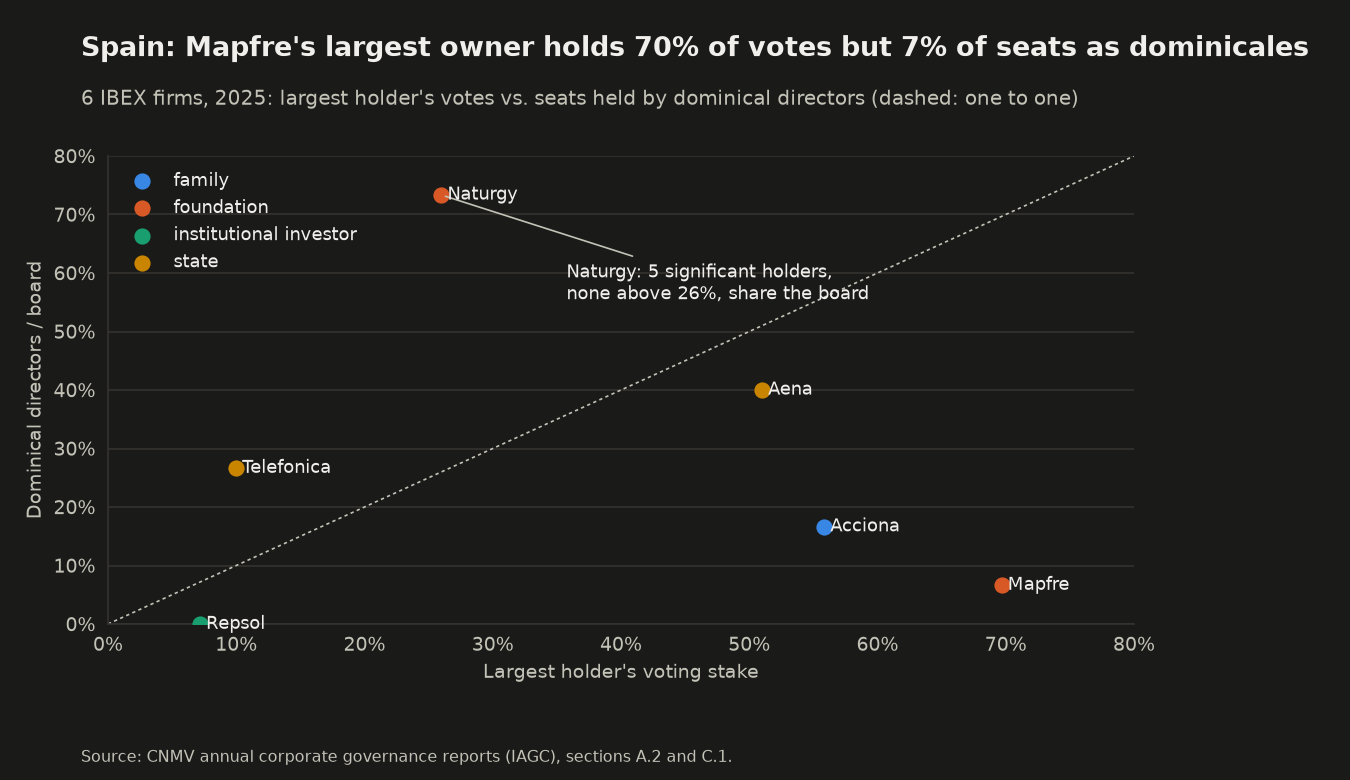
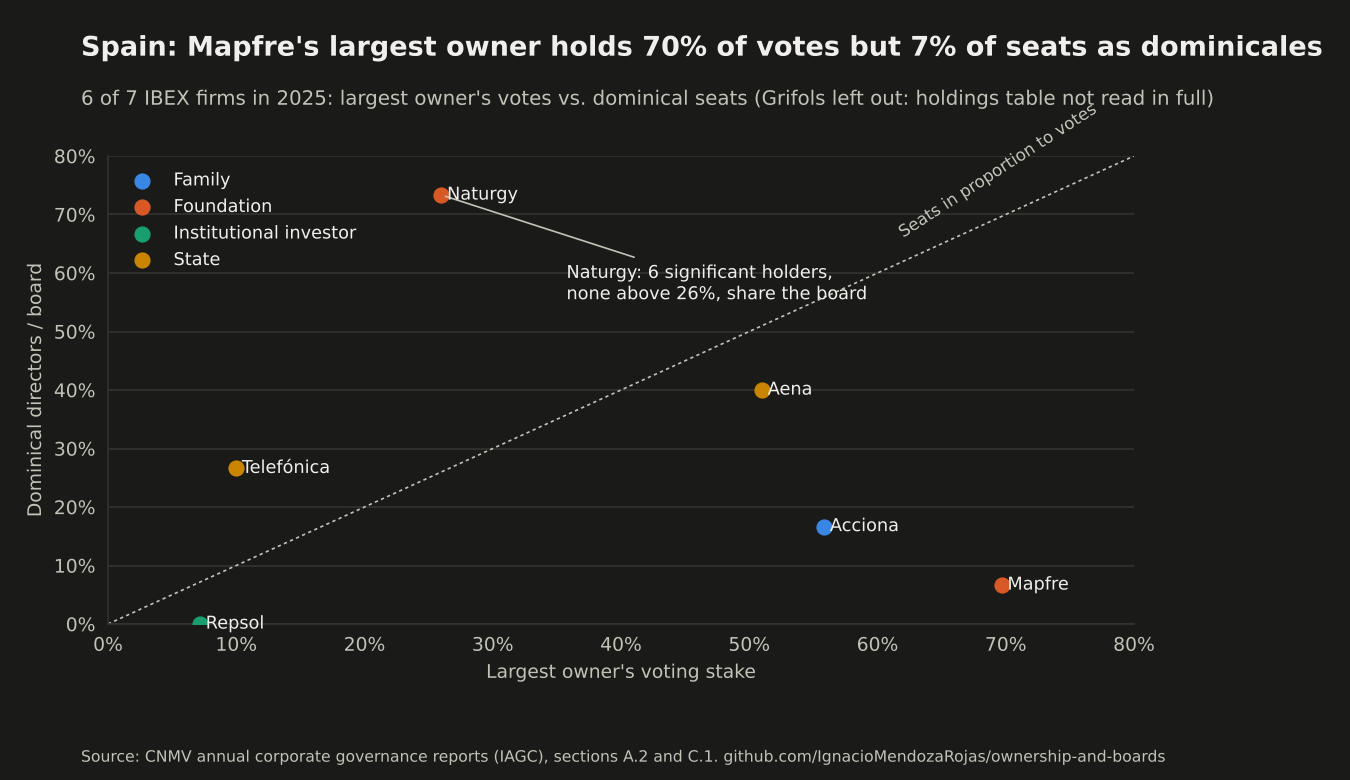
Research: rebuilt figures (governance chart with capitalised legend, accents and repo address); Naturgy has six significant holders
Claude-Session: https://claude.ai/code/session_01GFch6Mf9N8rni9gmPQhHex

diff --git a/index.html b/index.html
@@ -122,14 +122,14 @@
 
 <section class="finding" aria-labelledby="c-research">
   <p class="project"><strong>Research: corporate governance</strong></p>
-  <h2 id="c-research">Fundación Mapfre holds 70% of Mapfre's votes but one of its 15 board seats as a dominical director. At Naturgy, five investors, none above 26%, hold 11 of 15.</h2>
+  <h2 id="c-research">Fundación Mapfre holds 70% of Mapfre's votes but one of its 15 board seats as a dominical director. At Naturgy, six significant holders, none above 26%, hold 11 of 15.</h2>
   <div class="measure">
     <p><em>The question:</em> how combinations of owners (business groups, families, foundations, the State, pension funds and institutional investors) translate into board seats in two markets with concentrated ownership, Chile and Spain, which give minority owners different routes to the board. <em>Built here:</em> a panel from the regulators' public filings, the CMF's company pages and the CNMV's governance reports read out of PDF, with owners classified by type. In the pilot, the largest Chilean shareholder's median stake rose from 35% to 40% between 2010 and 2025, and Spanish controllers reach the board either through dominical directors or through executives, which a count of dominical seats alone misses.</p>
   </div>
   <figure>
     <picture>
       <source media="(prefers-color-scheme: dark)" srcset="assets/fig/governance-dark.png">
-      <img src="assets/fig/governance-light.png" alt="Largest holder's voting stake against the share of board seats held by dominical directors in six IBEX firms in 2025: Mapfre's foundation holds 70% of votes and 7% of seats; Naturgy's investors hold 26% at most and 73% of seats" loading="lazy" width="1350" height="780">
+      <img src="assets/fig/governance-light.png" alt="Largest owner's voting stake against the share of board seats held by dominical directors in six of seven IBEX firms in 2025: Mapfre's foundation holds 70% of votes and 7% of seats; Naturgy's investors hold 26% at most and 73% of seats" loading="lazy" width="1350" height="780">
     </picture>
   </figure>
   <ul class="tools measure">
